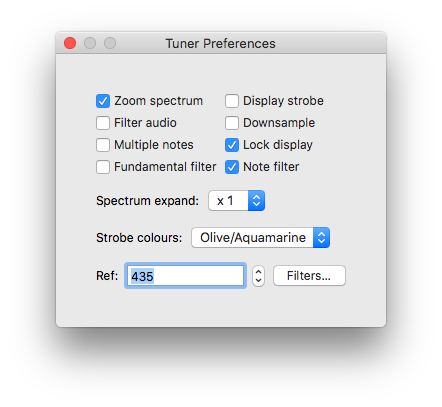
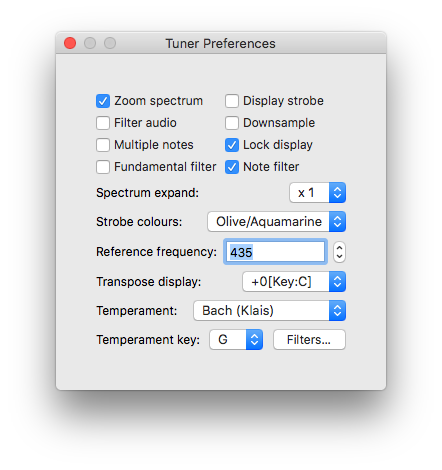
Update tuner image

Changed region(s): [[0.2059, 0.1769, 0.7941, 0.7666], [0.1176, 0.7961, 0.8824, 0.855], [0.1176, 0.059, 0.8824, 0.1474]]

diff --git a/swift/AppDelegate.swift b/swift/AppDelegate.swift
@@ -334,7 +334,7 @@ class AppDelegate: NSObject, NSApplicationDelegate
         colourRow.spacing = 8
 
         let refLabel = NSTextField()
-        refLabel.stringValue = "Reference:"
+        refLabel.stringValue = "Reference frequency:"
         refLabel.isEditable = false
         refLabel.isBordered = false
         refLabel.drawsBackground = false
@@ -356,7 +356,7 @@ class AppDelegate: NSObject, NSApplicationDelegate
         refRow.spacing = 8
 
         let transLabel = NSTextField()
-        transLabel.stringValue = "Transcribe:"
+        transLabel.stringValue = "Transpose display:"
         transLabel.isEditable = false
         transLabel.isBordered = false
         transLabel.drawsBackground = false
@@ -441,7 +441,7 @@ class AppDelegate: NSObject, NSApplicationDelegate
                                     transRow, tempRow, keyRow])
         stack.orientation = .vertical
         stack.alignment = .left
-        stack.spacing = 16
+        stack.spacing = 8
         stack.edgeInsets = NSEdgeInsets(top: 40, left: 40,
                                         bottom: 40, right: 40)
 

diff --git a/swift/TunerView.swift b/swift/TunerView.swift
@@ -118,11 +118,15 @@ class TunerView: NSView
 
         case "s":
             strobeData.enable = !strobeData.enable
+            staffData.enable = !strobeData.enable
+            strobeView.isHidden = !strobeData.enable
+            staffView.isHidden = !staffData.enable
             if (strbBox != nil)
             {
                 strbBox.state = strobeData.enable ? .on: .off
             }
             strobeView.needsDisplay = true
+            staffView.needsDisplay = true
 
         case "z":
             spectrumData.zoom = !spectrumData.zoom
